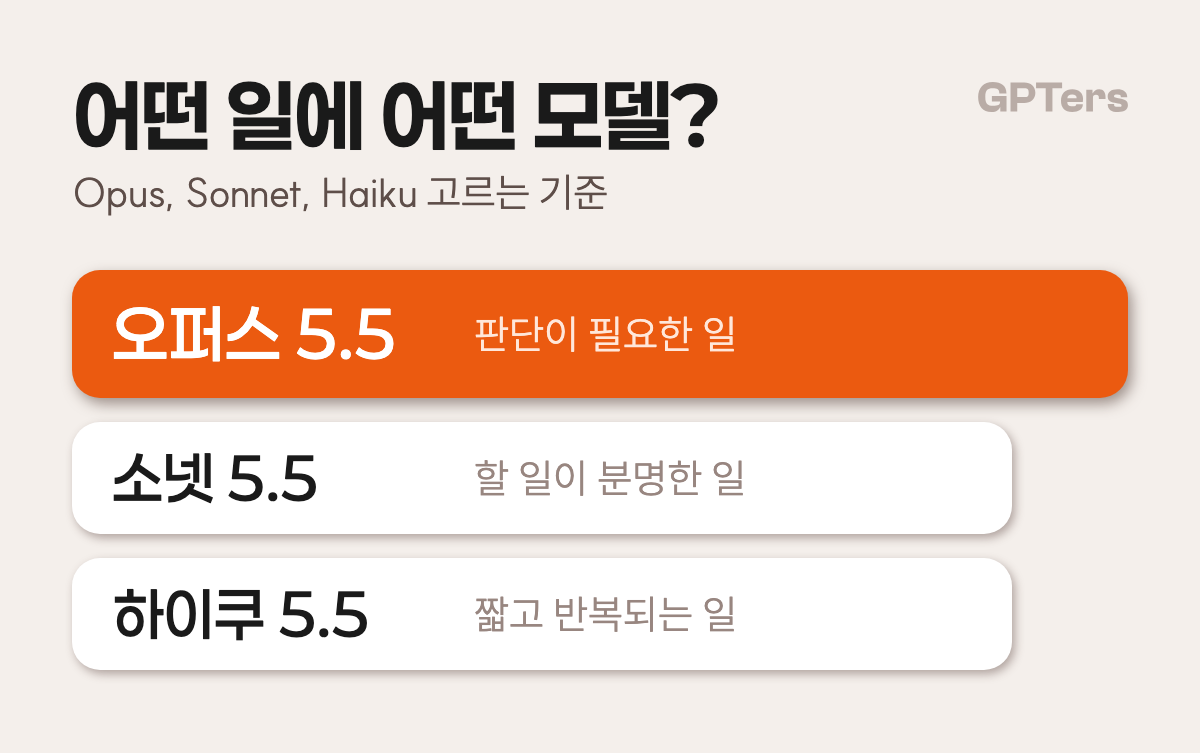
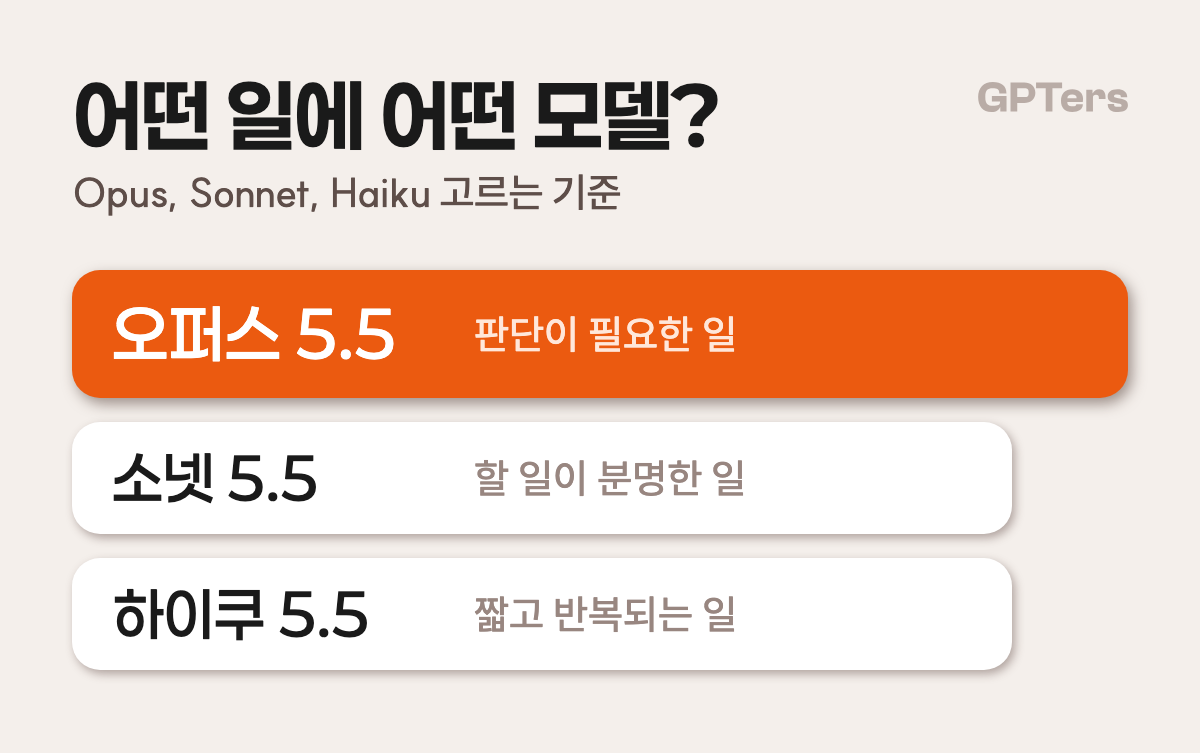
글꼴 섞어 쓰기 확정: SUIT는 한 단계 올려(작은 글자 SUIT 500 = 눈으로 페이퍼로지 300)

diff --git a/assets/examples/card-compare-2x2.html b/assets/examples/card-compare-2x2.html
@@ -5,13 +5,13 @@
 *{box-sizing:border-box}body{margin:0;background:#F4EFEB;color:#1A1A1A}
 .art{width:1200px;padding:68px 72px 83px;position:relative}
 h1{margin:0;font:700 80px/1.2 Paperlogy;letter-spacing:-.02em}
-.sub{margin-top:2px;font:300 40px/1.3 SUIT;color:#5E4E49;letter-spacing:-.01em}
+.sub{margin-top:2px;font:500 40px/1.3 SUIT;color:#5E4E49;letter-spacing:-.01em}
 .g{display:grid;grid-template-columns:1fr 1fr;gap:32px 36px;margin-top:52px}
 .card{background:#fff;border:none;box-shadow:var(--s);border-radius:28px;height:184px;padding:0 44px;display:flex;flex-direction:column;justify-content:center;align-items:center;text-align:center;gap:10px}
 .card.on{background:#EB5A10;box-shadow:var(--so)}
 .top{display:flex;justify-content:center;align-items:baseline;gap:16px}
-b{font:500 62px/1.15 Paperlogy;color:#1A1A1A} i{font:300 50px SUIT;font-style:normal;color:#988680}
-s{text-decoration:none;font:300 40px SUIT;color:#988680}
+b{font:500 62px/1.15 Paperlogy;color:#1A1A1A} i{font:500 50px SUIT;font-style:normal;color:#988680}
+s{text-decoration:none;font:500 40px SUIT;color:#988680}
 .on b,.on i{color:#fff}.on s{color:#FFD9C6}
 .hd{display:flex;justify-content:space-between;align-items:flex-start}.lg{width:150px;flex:none;margin-top:13.6px}</style></head><body><div class="art" id="a" style="--s:3px 4px 10px rgba(74,51,44,.40);--so:4px 6px 14px rgba(74,51,44,.50)">
 <div class="hd"><h1>클로드 모델별 차이</h1><img class="lg" src="../logo/wordmark-gray-warm.svg"></div><div class="sub">Fable, Opus, Sonnet, Haiku 비교</div><div class="g"><div class="card"><div class="top"><b>페이블</b><i>5.1</i></div><s>가장 똑똑함</s></div><div class="card on"><div class="top"><b>오퍼스</b><i>5.5</i></div><s>공식 추천</s></div><div class="card"><div class="top"><b>소넷</b><i>5.5</i></div><s>빠르고 균형</s></div><div class="card"><div class="top"><b>하이쿠</b><i>5.5</i></div><s>싸고 빠름</s></div></div></div></body></html>

diff --git a/assets/examples/card-formats.html b/assets/examples/card-formats.html
@@ -7,12 +7,12 @@
 .hd{display:flex;justify-content:space-between;align-items:flex-start}
 .lg{width:150px;flex:none;margin-top:13.6px}
 h1{margin:0;font:700 80px/1.2 Paperlogy;letter-spacing:-.02em}
-.sub{margin-top:2px;font:300 40px/1.3 SUIT;color:#5E4E49;letter-spacing:-.01em}
+.sub{margin-top:2px;font:500 40px/1.3 SUIT;color:#5E4E49;letter-spacing:-.01em}
 .card{background:#fff;border-radius:28px;box-shadow:3px 4px 10px rgba(74,51,44,.40)}
 .card.on{background:#EB5A10;box-shadow:4px 6px 14px rgba(74,51,44,.50)}
 b{font-weight:500} s{text-decoration:none} i{font-style:normal}
 .on b,.on i,.on q{color:#fff!important} .on s{color:#FFE7DA!important}
-.cap{font:300 40px SUIT;color:#988680}
+.cap{font:500 40px SUIT;color:#988680}
 /* steps */
 .st{display:flex;align-items:center;justify-content:space-between;margin-top:88px}
 .st .card{position:relative;width:206px;height:200px;display:flex;flex-direction:column;align-items:center;justify-content:center;gap:10px;padding-top:18px}

diff --git a/DESIGN.md b/DESIGN.md
@@ -50,7 +50,7 @@ AI를 함께 공부하고 성장하는 사람들이 모인 커뮤니티. 4주 AI
 | 한글 제목 | **페이퍼로지(Paperlogy)** Bold(700) 기본. Black(900)은 판매 배너 헤드카피처럼 아주 세게 보여야 할 때만 |
 | 한글 본문·라벨 | **SUIT** |
 | 영문·숫자 강조 | **Clash Grotesk** 500(필요하면 700) |
-- 🔴 **굵기는 300·500·700만 쓴다(900은 필요할 때만). 400·600·800은 쓰지 않는다**(10/19 지인님). 기본 위계는 700에서 두 단계씩: 700 → 500 → 300. 페이퍼로지·SUIT·Clash Grotesk 모두 같다.
+- 🔴 **굵기는 300·500·700만 쓴다(900은 필요할 때만). 400·600·800은 쓰지 않는다**(10/19 지인님). 기본 위계는 700에서 두 단계씩: 700 → 500 → 300. SUIT는 한 단계 올려 쓴다(3-1). 페이퍼로지·SUIT·Clash Grotesk 모두 같다.
 - 폰트 파일: 이 저장소 `assets/fonts/`에 쓰는 굵기만 둔다. 페이퍼로지 300·500·700·900, SUIT 300·500·700(둘 다 OFL). Clash Grotesk는 fontshare.com.
 - 굵기 이름: 300 Light · 500 Medium · 700 Bold · 900 Black(페이퍼로지)/Heavy(SUIT).
 - 모바일 1080 너비 캔버스 기준: 광고 헤드라인 110px 이상 · 카드 표지 제목 96px(최소 80) · 소제목 56px · 본문 48px · 가장 작은 글자 36px(= 가로의 3.3%, 블로그 본문 이미지도 같다). 웹: 본문 16px, h1 32px 이상.
@@ -63,16 +63,17 @@ AI를 함께 공부하고 성장하는 사람들이 모인 커뮤니티. 4주 AI
 |---|---|---|---|
 | 제목 | 페이퍼로지 700, 자간 -0.02em | 6.7% (80px) | ink `#1A1A1A` |
 | 카드 이름 | 페이퍼로지 500 | 4.5~5.2% (54~62px), 강조 카드는 한 단계 크게 | ink, 주황 카드 위는 흰색 |
-| 카드 숫자 | SUIT 300 | 4.2% (50px), 이름 바로 옆 | card-number `#988680` |
+| 카드 숫자 | SUIT 500 | 4.2% (50px), 이름 바로 옆 | card-number `#988680` |
 | 대결·전후 문장 | SUIT 500, 행간 1.4 | 4.2% (50px) | ink, 주황 위는 흰색 |
-| 부제 | SUIT 300, 자간 -0.01em | 3.3% (40px) | caption `#5E4E49` |
-| 카드 설명 | SUIT 300 | 3.3% (40px), 하한 | card-number `#988680`, 주황 위는 `#FFE7DA` |
+| 부제 | SUIT 500, 자간 -0.01em | 3.3% (40px) | caption `#5E4E49` |
+| 카드 설명 | SUIT 500 | 3.3% (40px), 하한 | card-number `#988680`, 주황 위는 `#FFE7DA` |
 | 번호 배지·대결 라벨 | SUIT 700 | 3.3% (40px) | 흰색 on `#4A332C` |
 | 로고 폭 | 회색 단색 `#B9ACA6` | 12.5% (150px) | |
 - 단계는 6.7 → 5.2 → 4.2 → 3.3%로 고르게 벌린다. 제목을 6%까지 줄이면 숫자와 설명이 붙어 근소한 차이가 생긴다(10/19 72px안 탈락).
-- 🔴 근소한 차이는 만들지 않는다. 크기 5px 안팎·굵기 한 단계처럼 눈으로 구분 안 되는 값은 똑같이 맞춘다(부제와 카드 설명은 둘 다 SUIT 300 40px). 다르게 할 거면 확실히 다르게.
+- 🔴 근소한 차이는 만들지 않는다. 크기 5px 안팎·굵기 한 단계처럼 눈으로 구분 안 되는 값은 똑같이 맞춘다(부제와 카드 설명은 둘 다 SUIT 500 40px). 다르게 할 거면 확실히 다르게.
 - 위계는 크게 벌린다: 제목 > 카드 이름 > 숫자 > 설명.
-- 🔴 굵기 위계는 **700에서 두 단계씩: 제목 700 → 카드 이름·문장 500 → 숫자·부제·설명 300**(10/19 확정). 배지·라벨은 700. 400·600·800은 쓰지 않는다(3절).
+- 🔴 굵기 위계는 **눈에 보이는 두께로 700 → 500 → 300**(10/19 확정): 제목 페이퍼로지 700 → 카드 이름 페이퍼로지 500 → 숫자·부제·설명 **SUIT 500**(눈으로는 페이퍼로지 300 두께). 배지·라벨은 SUIT 700. 400·600·800은 쓰지 않는다(3절).
+- 🔴 글꼴은 섞어 쓴다(제목·이름 페이퍼로지, 작은 글자 SUIT). SUIT는 같은 숫자에서 페이퍼로지보다 한 단계 얇게 보이니 **SUIT는 한 단계(200) 올려 쓴다**. 페이퍼로지 300 자리에 SUIT 500, 500 자리에 SUIT 700.
 - 작은 글자는 300까지만. 200·100은 폰(약 12.5px)에서 안 읽히니 큰 글자 장식에만. 지금 조합: 제목 700, 카드 이름 500, 숫자·부제·설명 SUIT 500(크기와 색으로 구분), 배지·라벨 SUIT 700.
 - 페이퍼로지는 제목과 이름에만. 프롬프트, 대화, 인용처럼 실제 입력하는 문장은 SUIT.
 - 숫자를 카드 반대쪽 끝에 떨어뜨리지 않는다. 이름 옆에 붙인다.
